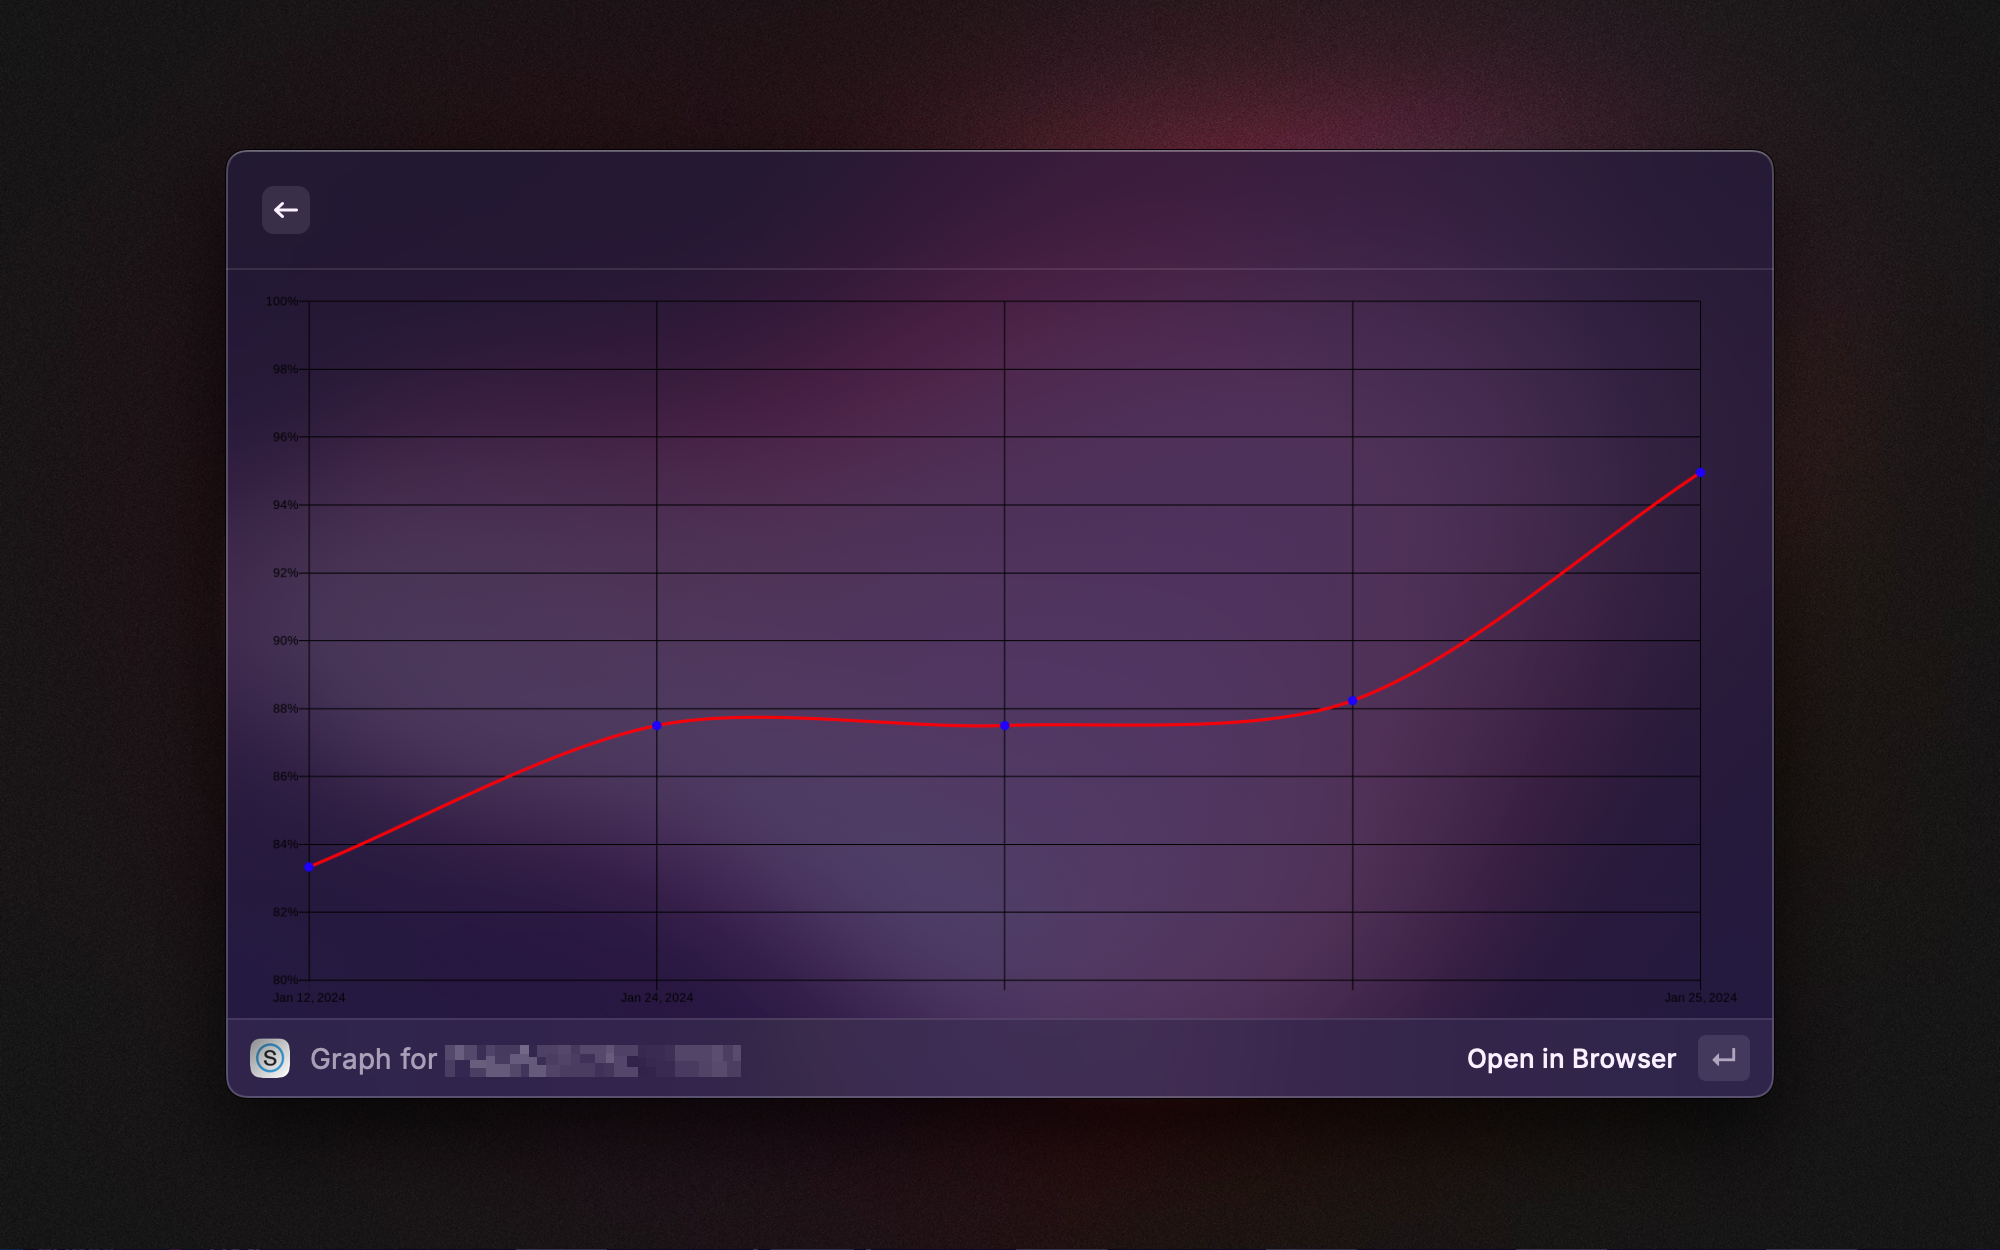
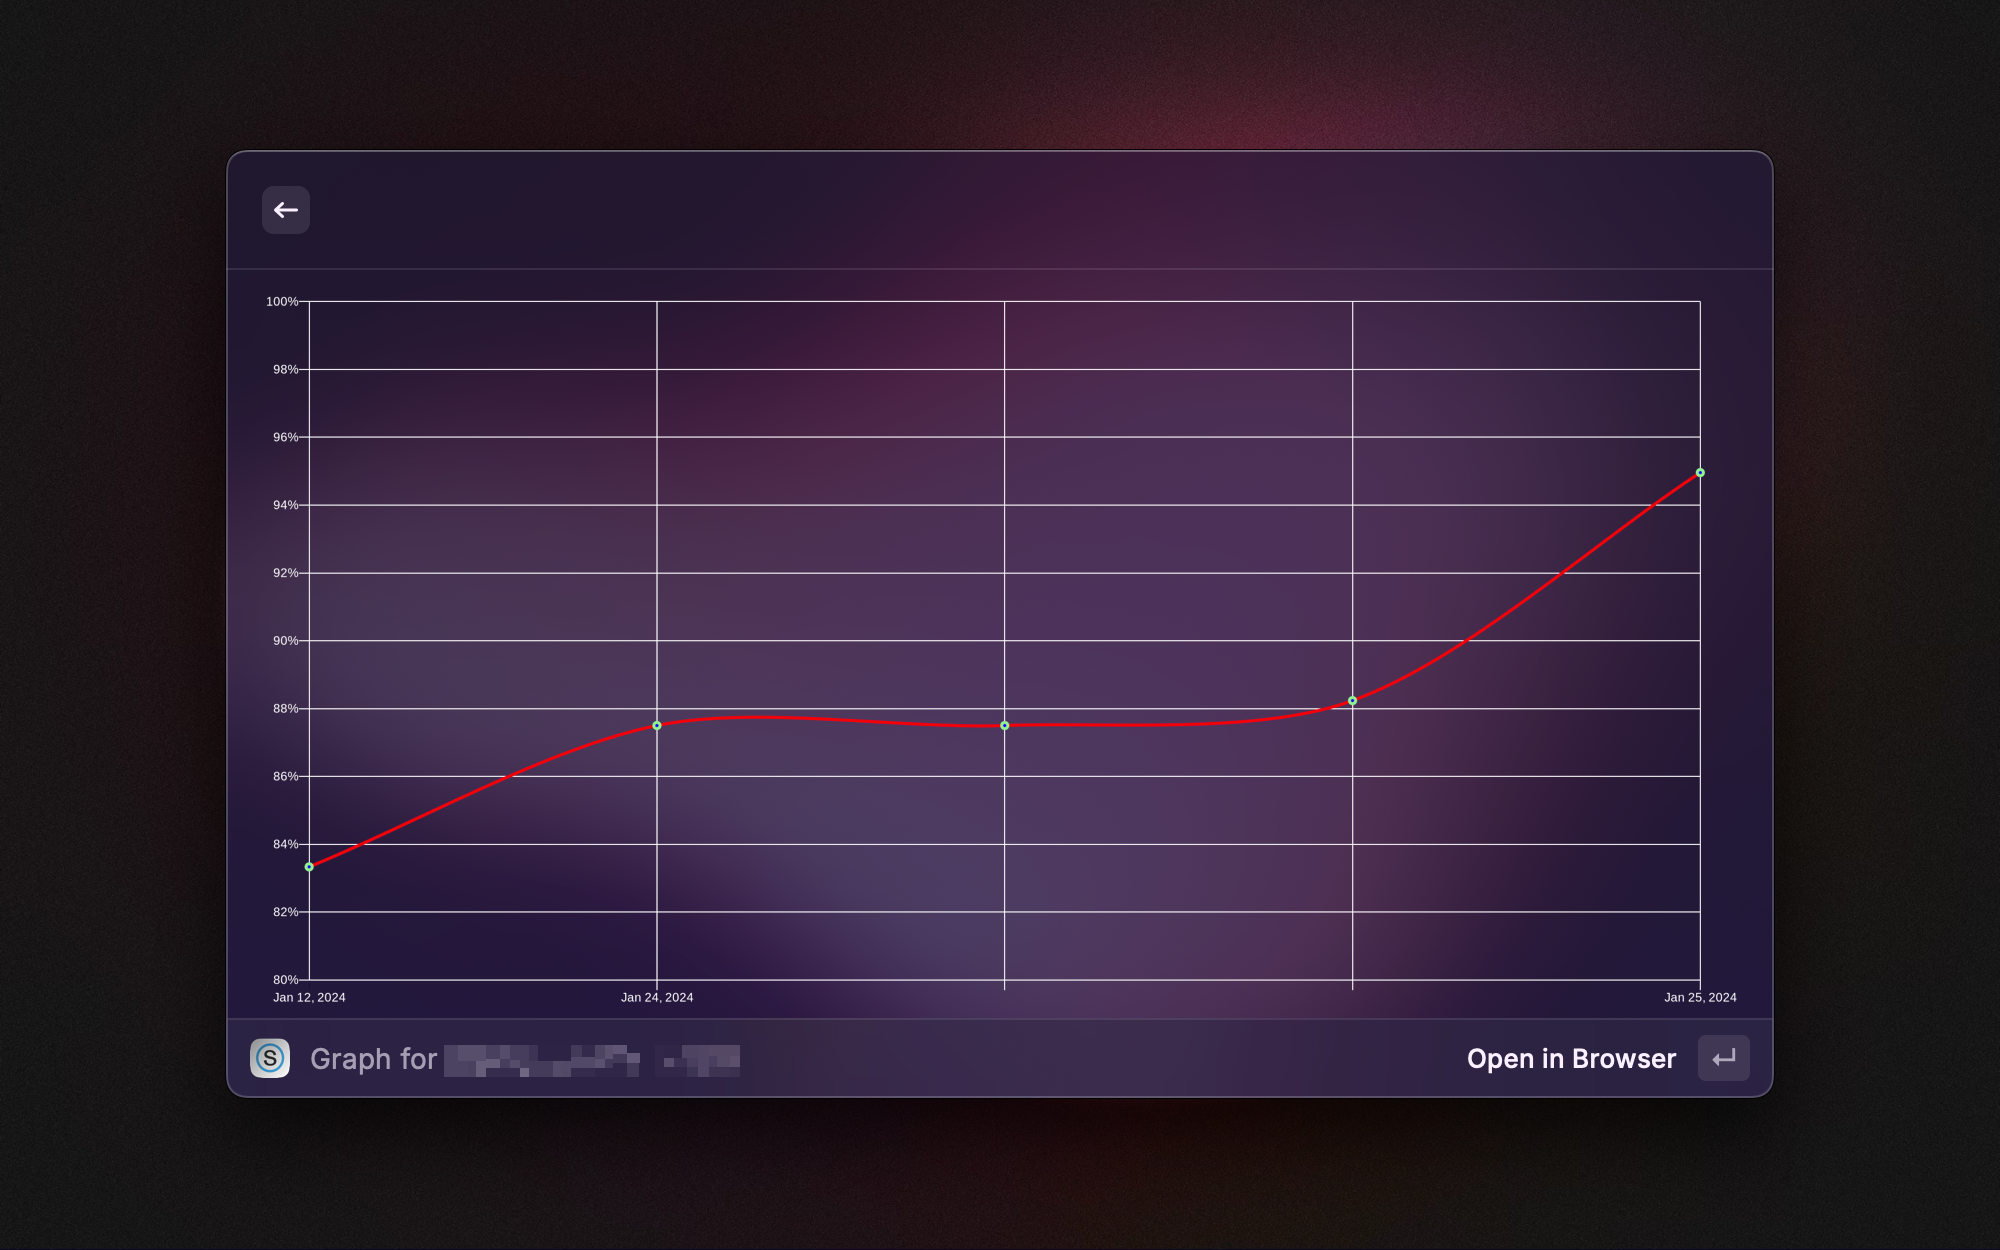
Update appearance of chart based on environment

diff --git a/src/showGrades.jsx b/src/showGrades.jsx
@@ -8,6 +8,7 @@ import {
   Toast,
   Action,
   popToRoot,
+  environment,
   Image,
   Detail,
 } from "@raycast/api";
@@ -295,7 +296,7 @@ function getChartUrl(grades, categories) {
             data: dataPoints,
             fill: false,
             borderColor: "red", // Set the line color
-            pointBorderColor: "blue", // Make the point border the same color as the points
+            pointBorderColor: environment.appearance === "dark" ? "rgb(144, 238, 144)" : "blue", // Make the point border the same color as the points
             pointBackgroundColor: "blue", // Color the points
             lineTension: 0.3,
             borderWidth: 3,
@@ -312,23 +313,23 @@ function getChartUrl(grades, categories) {
               ticks: {
                 min: minGrade, // Set the minimum value of the y-axis
                 max: maxGrade, // Set the maximum value of the y-axis
-                fontColor: "black", // Make the text black
+                fontColor: environment.appearance === "dark" ? "white" : "black", // Make the text white if environment appearance is dark, otherwise make it black
                 callback: function (value) {
                   return value + "%"; // Append '%' to the y-axis labels
                 },
               },
               gridLines: {
-                color: "black", // Make the axes black
+                color: environment.appearance === "dark" ? "white" : "black", // Make the axes black
               },
             },
           ],
           xAxes: [
             {
               ticks: {
-                fontColor: "black", // Make the text black
+                fontColor: environment.appearance === "dark" ? "white" : "black", // Make the text white if environment appearance is dark, otherwise make it black
               },
               gridLines: {
-                color: "black", // Make the axes black
+                color: environment.appearance === "dark" ? "white" : "black", // Make the axes black
               },
             },
           ],
@@ -376,7 +377,7 @@ async function gradesInBrowser({ grades, categories }) {
   const minGrade = Math.floor(Math.min(...dataPoints) / 10) * 10; // Round down to the nearest 10
   const maxGrade = Math.ceil(Math.max(...dataPoints) / 10) * 10; // Round up to the nearest 10
   const shadowOffset = 2; // Adjust this to change the shadow offset
-  const shadowColor = "rgba(0, 0, 0, 0.2)"; // Adjust this to change the shadow color
+  const shadowColor = "white"; // Adjust this to change the shadow color
 
   const dataPointsShadow = dataPoints.map((point, index) => {
     // Create a shadow effect by offsetting the data points and using a lower opacity
